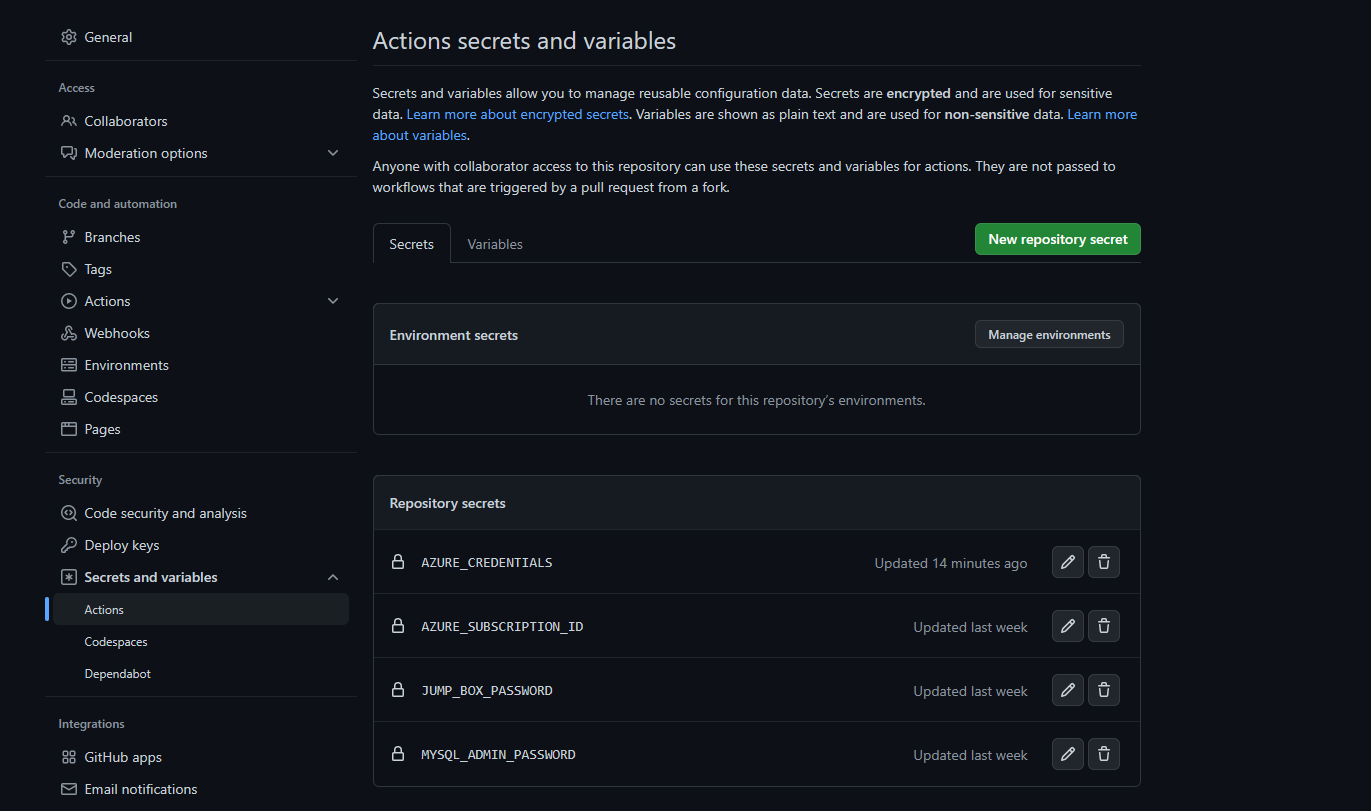
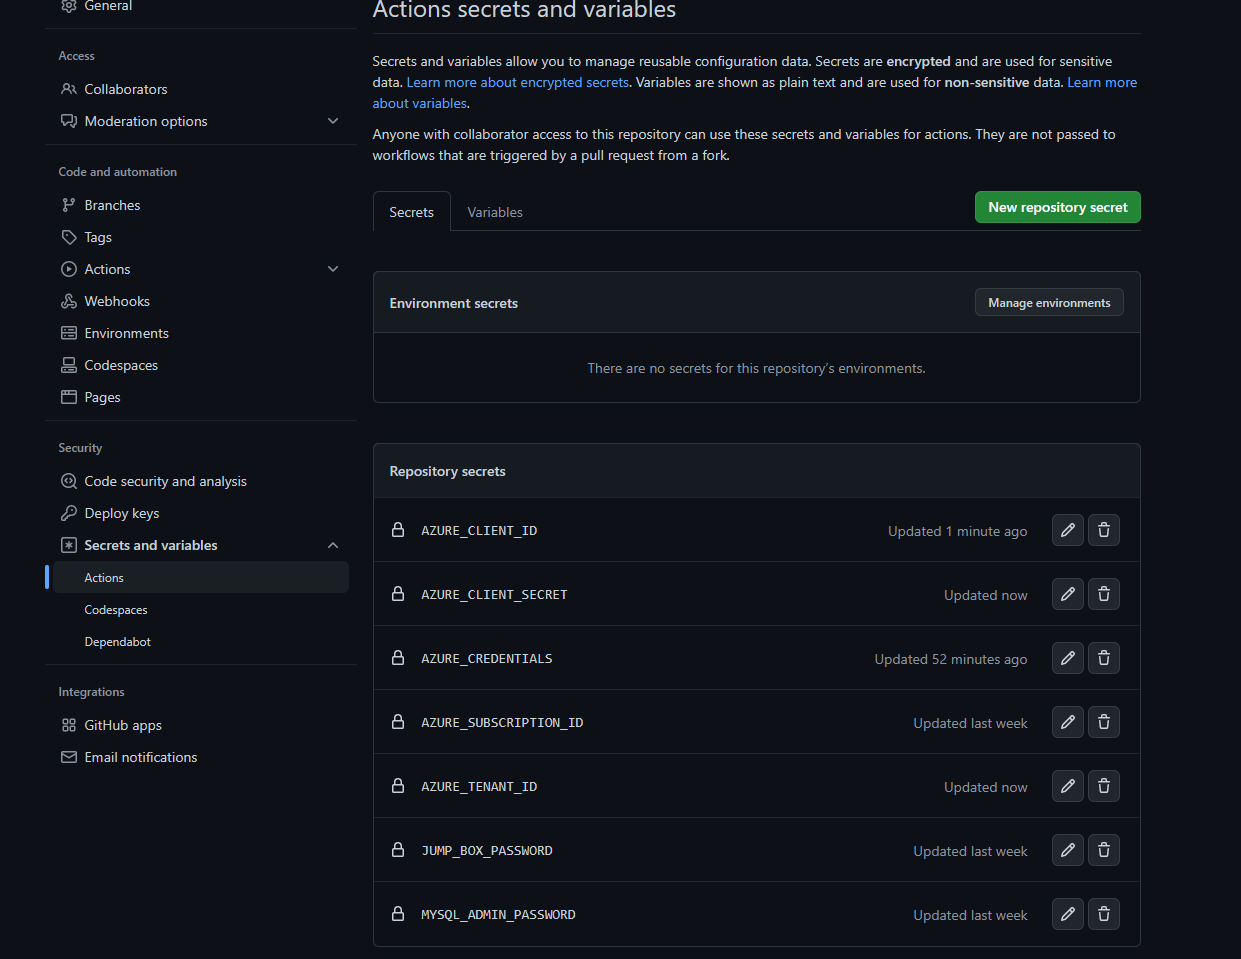
re-add the secrets needed by terraform

diff --git a/Scenarios/ASA-Secure-Baseline/Terraform/09-e2e-githubaction.md b/Scenarios/ASA-Secure-Baseline/Terraform/09-e2e-githubaction.md
@@ -74,7 +74,7 @@ To create a new Service Principal, run the following commands:
     echo $SUBSCRIPTION_ID     
 ```
 
-Then just like in the previous step, create a new secret in your repository named `SUBSCRIPTION_ID` and `AZURE_CREDENTIALS` and paste the value of the `AZURE_CREDENTIALS` variable as the secret value (make sure to _copy the entire JSon_).
+Then just like in the previous step, create a new secret in your repository named `AZURE_SUBSCRIPTION_ID`, `AZURE_CLIENT_ID`, `AZURE_CLIENT_SECRET`, `AZURE_TENANT_ID`. You can copy paste these values from the AZURE_CREDENTIALS value returned in the cli. Also create another secret for  `AZURE_CREDENTIALS` and paste the value of the `AZURE_CREDENTIALS` variable as the secret value (make sure to _copy the entire JSon_).
 
 ![GitHub Secrets](../../../images/github_asa_secrets.png)
 
@@ -112,7 +112,6 @@ YAML is very sensitive to indentation.
 * If you do not want to provision the firewall or destroy the E2E infra once the pipeline run in complete, make sure to set those values to false in the deploy.yaml
 * If a particular step errors out you can run only that step from the pipeline directly.Most errors should be transient errors.
 
-
 ## Running the workflow
 
 Now that we've defined our workflow and prepared everything, we can run it to deploy our landing zone and the petclinic application to Azure Spring Apps.
@@ -121,7 +120,6 @@ It should take a few minutes to complete.
 A successful run using github actions should look like below:
 
 ![successful e2e run](../../../images/github_asa_successful_run.png)
-
 
 ## Testing the deployed application
 
@@ -134,4 +132,3 @@ First we need to get the ingress URL by running the following command:
 ```
 
 Then we can use `curl` to test our applications using the above endpoint. This assumes that there's no Application Gateway and you would access your spring app using the spring apps ingress url for the api-gateway app instance.
-
